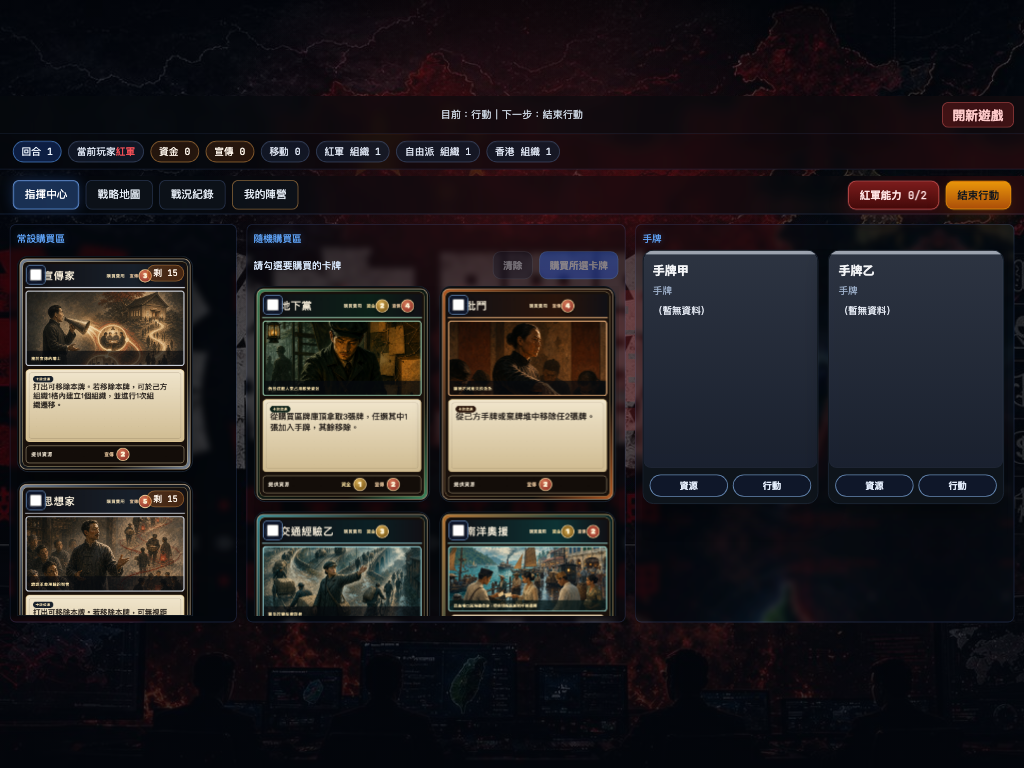
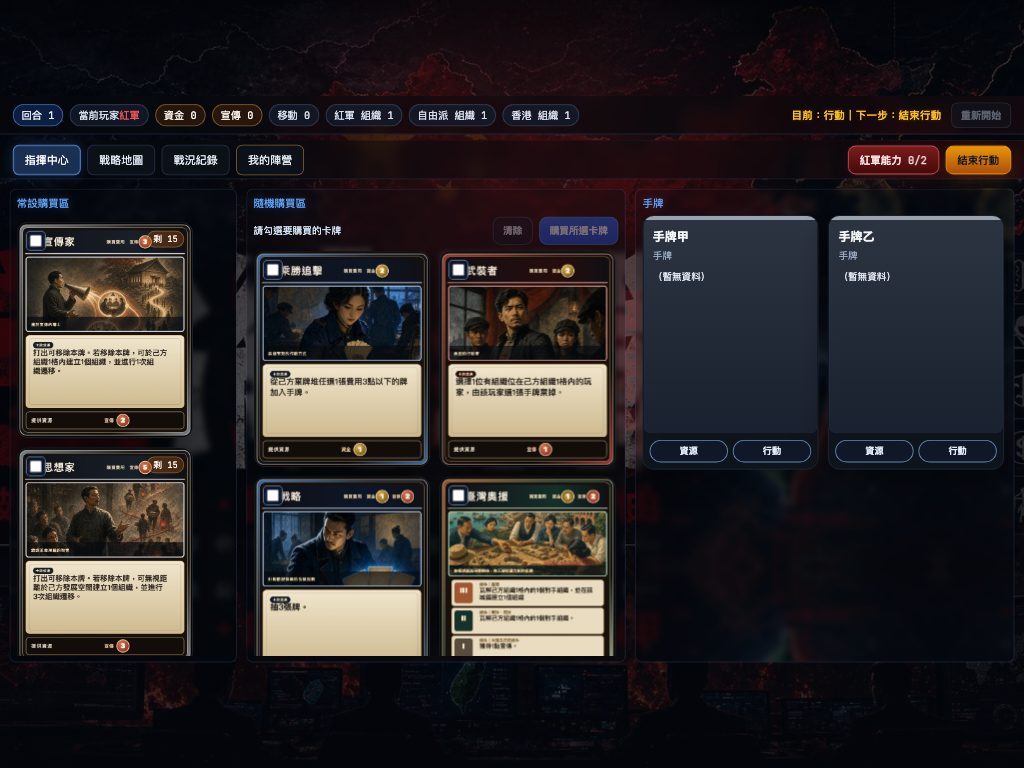
fix: 移除紅軍能力成功結果列

diff --git a/static/app.js b/static/app.js
@@ -2982,7 +2982,15 @@ function renderFactionActionResult(state, faction) {
 
   const result = state.last_action_result || null;
   const message = formatFactionActionResult(result);
-  const resultActionNames = new Set(['立場試探', '賭徒耳語', '民族祭儀', '統戰部', '政工部', '國安部', '中紀委']);
+  const redArmyActionNames = new Set(['統戰部', '政工部', '國安部', '中紀委']);
+  if (faction === 'red_army' && redArmyActionNames.has(result?.name) && !result.unavailable) {
+    // Successful Red Army abilities already update the hand, deck, organizations, and
+    // remaining-use counter. Do not create a redundant HUD result row or panel message.
+    lastFactionActionResultKey = JSON.stringify(result);
+    info.textContent = '';
+    return {hasResult: false, message: '', html: ''};
+  }
+  const resultActionNames = new Set(['立場試探', '賭徒耳語', '民族祭儀', ...redArmyActionNames]);
   if (resultActionNames.has(result?.name) && message) {
     const resultKey = JSON.stringify(result);
     if (lastFactionActionResultKey !== resultKey) {

diff --git a/static/index.html b/static/index.html
@@ -368,6 +368,6 @@
 </div>
 <script src="https://unpkg.com/leaflet@1.9.4/dist/leaflet.js"></script>
 <script src="/static/player_messages_zh_tw.js?v=player-message-i18n-20260801"></script>
-<script src="/static/app.js?v=direct-base-selection-20260824"></script>
+<script src="/static/app.js?v=hide-red-army-success-result-20260824"></script>
 </body>
 </html>

diff --git a/scripts/validate_remove_redundant_phase_and_red_army_panel.py b/scripts/validate_remove_redundant_phase_and_red_army_panel.py
@@ -96,7 +96,34 @@ def main() -> None:
             and 0 <= state["gap"] <= 12,
             state,
         )
+        successful_result = page.evaluate(
+            """async () => {
+              const synthetic = structuredClone(window.lastGameState);
+              synthetic.last_action_result = {name: '統戰部', drawn: 1};
+              synthetic.red_army_action_count = 1;
+              await render(synthetic);
+              await new Promise(resolve => requestAnimationFrame(() => requestAnimationFrame(resolve)));
+              const notice = document.getElementById('phaseActionNotice');
+              return {
+                phaseBarDisplay: getComputedStyle(document.getElementById('phaseActionBar')).display,
+                noticeVisible: notice.classList.contains('visible'),
+                noticeText: notice.textContent.trim(),
+                actionInfo: document.getElementById('factionActionInfo')?.textContent.trim() || '',
+                abilityText: document.getElementById('redArmyAbilityBtn')?.textContent.trim() || '',
+              };
+            }"""
+        )
+        record(
+            "successful_red_army_ability_does_not_create_result_row",
+            successful_result["phaseBarDisplay"] == "none"
+            and not successful_result["noticeVisible"]
+            and not successful_result["noticeText"]
+            and not successful_result["actionInfo"]
+            and successful_result["abilityText"] == "紅軍能力 1/2",
+            successful_result,
+        )
         page.screenshot(path=str(SHOT_1280), full_page=True)
+        page.evaluate("render(window.lastGameState)")
 
         page.locator("#redArmyAbilityBtn").click()
         page.wait_for_function("getComputedStyle(document.getElementById('factionActionModal')).display !== 'none'")

diff --git a/TODO.md b/TODO.md
@@ -10,6 +10,11 @@
 - [done] 移除重複且沒有操作價值的「視覺狀態」說明；組織狀態與共享資訊仍保留在正式城鎮資料內。
 - [done] 地圖選取與高亮 Browser proof **8/8 passed**；JavaScript 語法與 Python validator compile 通過。
 
+### P1：紅軍能力成功後不顯示結果列
+- [done] 統戰部、政工部、國安部與中紀委成功結算後，不再建立 HUD 結果提示或陣營面板結果文字。
+- [done] 紅軍能力計數、手牌、牌庫與組織等實際狀態仍正常更新；無法發動時仍保留必要的阻擋提示視窗。
+- [done] 精簡紅軍介面 Browser proof **8/8 passed**；紅軍能力無可執行內容回歸 **6/6 passed**。
+
 ### P1：根據地改為直接自由選擇
 - [done] 移除「返回根據地類別」與泛稱根據地類別按鈕；「任意牆內」依正式地圖統治者展開為真實牆內城鎮，選擇陣營後直接列出所有合法城鎮。
 - [done] 玩家可直接在不同城鎮之間反覆切換；目前選取狀態、Lobby 摘要與右側根據地說明會立即同步更新。

diff --git a/docs/records/ui-layout/remove-redundant-phase-and-red-army-panel/REMOVE_REDUNDANT_PHASE_AND_RED_ARMY_PANEL_VALIDATION.md b/docs/records/ui-layout/remove-redundant-phase-and-red-army-panel/REMOVE_REDUNDANT_PHASE_AND_RED_ARMY_PANEL_VALIDATION.md
@@ -1,10 +1,11 @@
 # 精簡階段 chip 與紅軍陣營能力面板 Browser 驗證
 
-Summary: **7/7 passed**
+Summary: **8/8 passed**
 
 - PASS: `hud_removes_redundant_action_phase_chip`
 - PASS: `red_army_faction_action_panel_is_removed`
 - PASS: `tab_row_red_army_button_remains_the_only_entry`
+- PASS: `successful_red_army_ability_does_not_create_result_row`
 - PASS: `remaining_red_army_button_still_opens_modal`
 - PASS: `non_red_faction_action_panels_are_not_removed`
 - PASS: `narrow_view_keeps_simplified_layout_inside_viewport`
